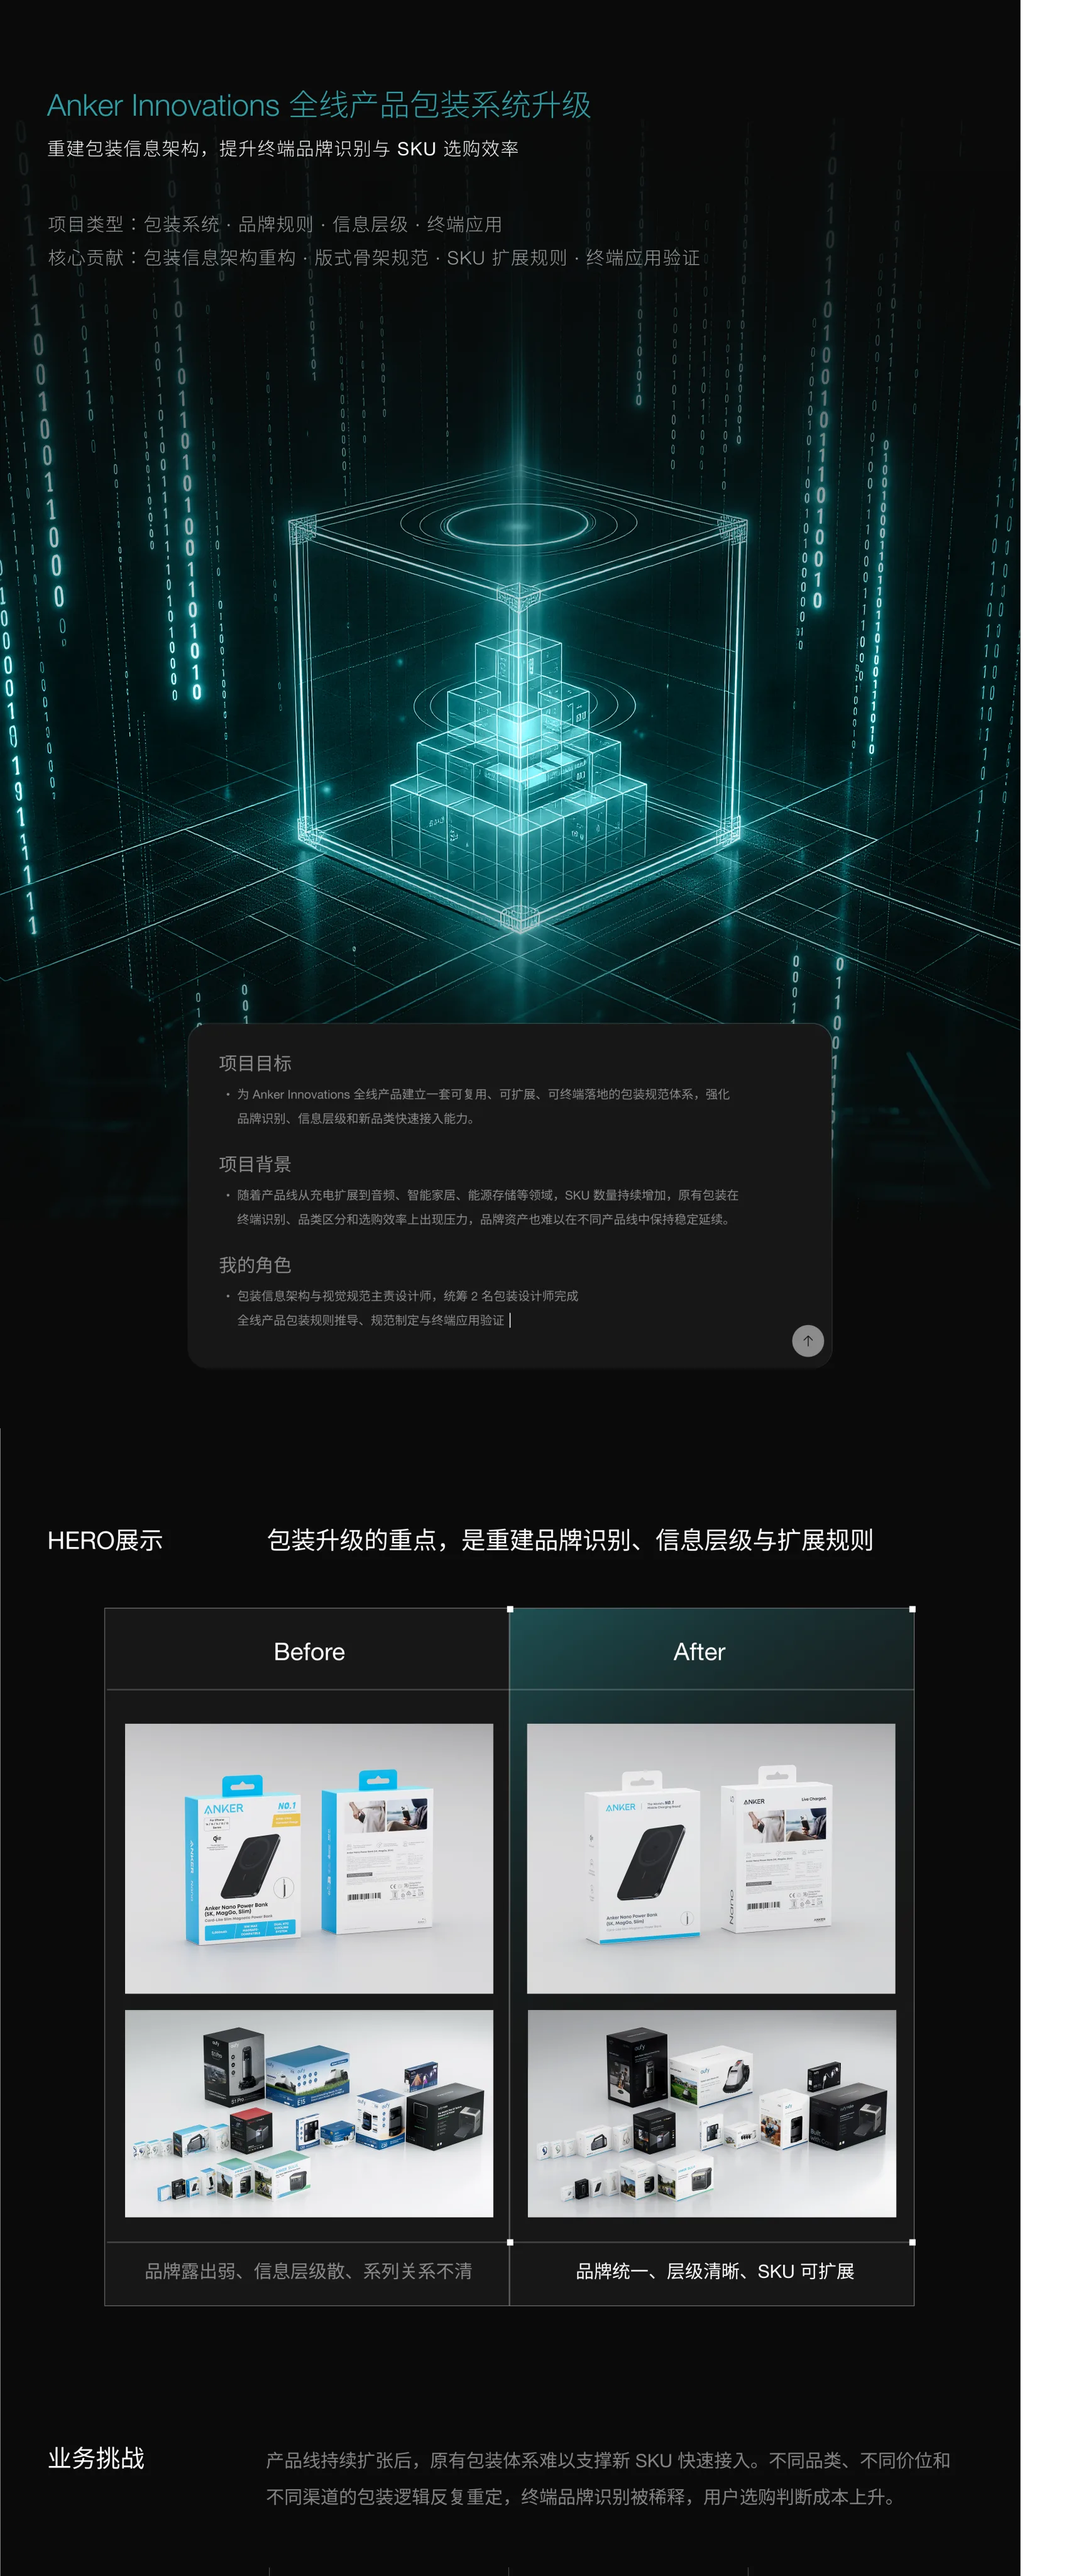
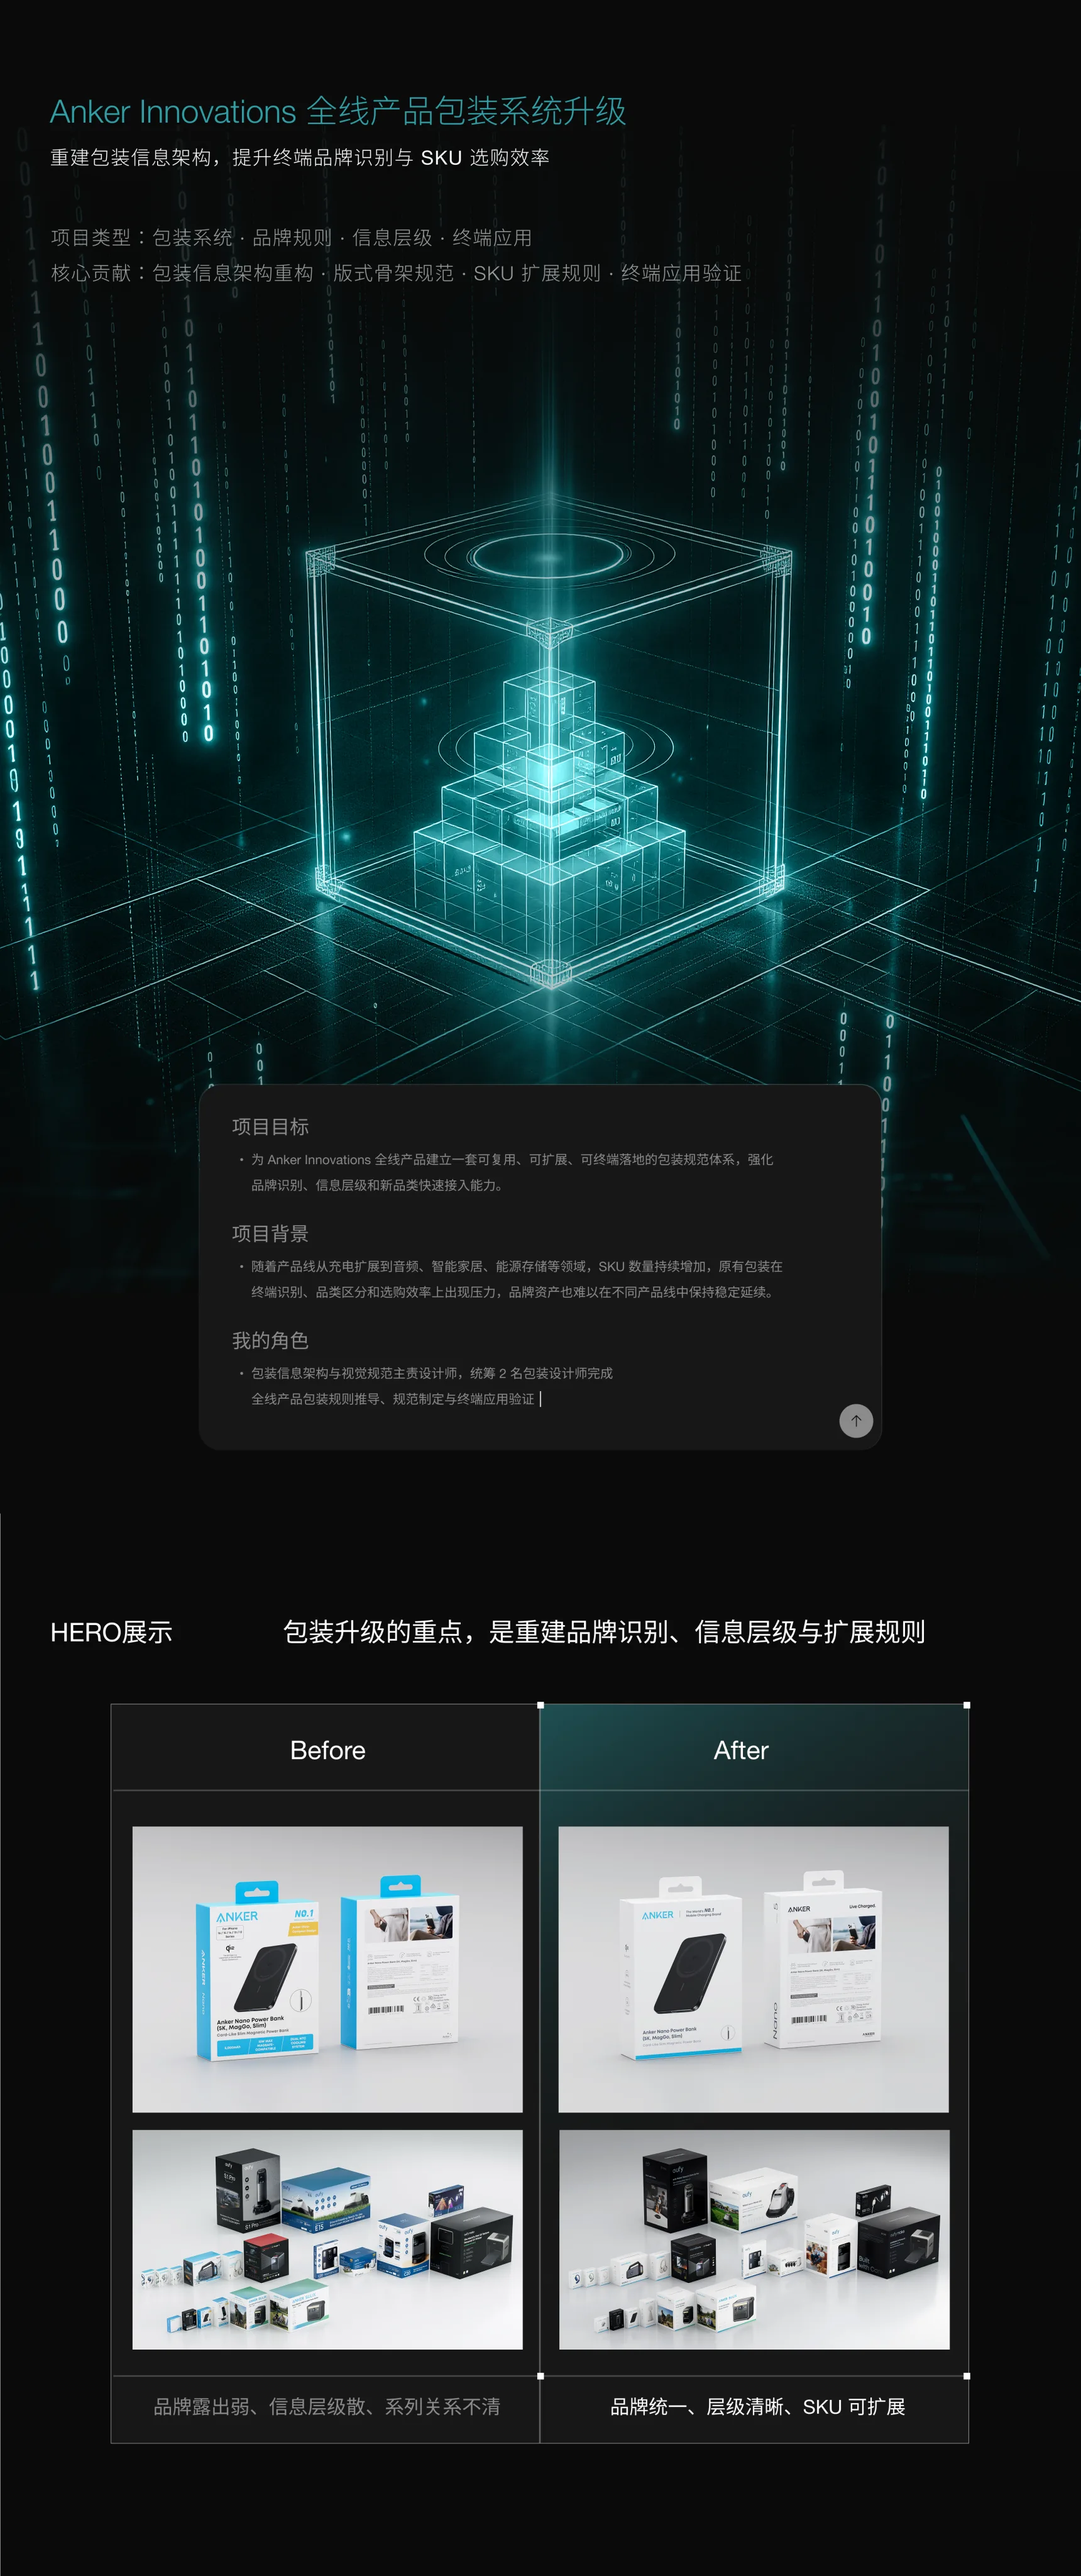
fix system case source canvas

diff --git a/src/case-study-manifest.js b/src/case-study-manifest.js
@@ -83,29 +83,29 @@ export const caseStudies = {
     "id": "system",
     "slices": [
       {
-        "src": "/assets/cases/system/slice-01.webp",
+        "src": "/assets/cases/system/slice-01.webp?v=crop-3034",
         "width": 1720,
         "height": 4096
       },
       {
-        "src": "/assets/cases/system/slice-02.webp",
+        "src": "/assets/cases/system/slice-02.webp?v=crop-3034",
         "width": 1720,
         "height": 4096
       },
       {
-        "src": "/assets/cases/system/slice-03.webp",
+        "src": "/assets/cases/system/slice-03.webp?v=crop-3034",
         "width": 1720,
         "height": 4096
       },
       {
-        "src": "/assets/cases/system/slice-04.webp",
+        "src": "/assets/cases/system/slice-04.webp?v=crop-3034",
         "width": 1720,
         "height": 4096
       },
       {
-        "src": "/assets/cases/system/slice-05.webp",
+        "src": "/assets/cases/system/slice-05.webp?v=crop-3034",
         "width": 1720,
-        "height": 1147
+        "height": 2192
       }
     ]
   }
